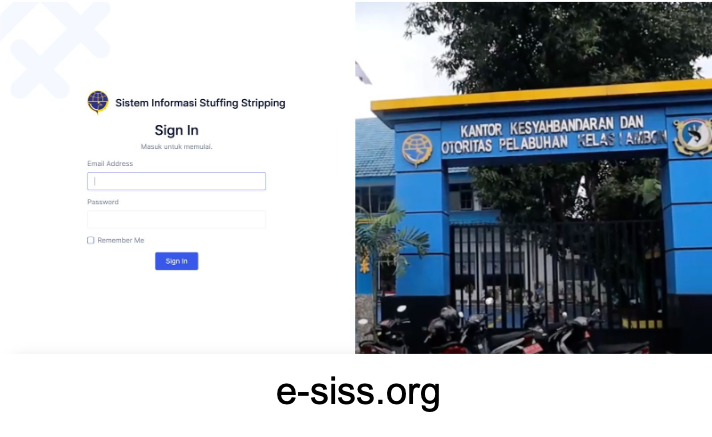
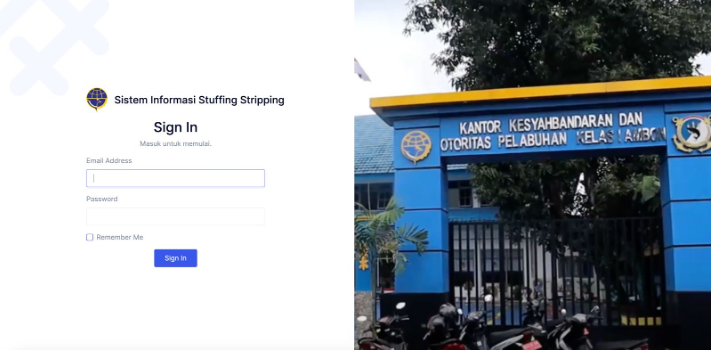
edit image

diff --git a/index.html b/index.html
@@ -41,7 +41,7 @@
   }
   .portfolio-item img {
       max-width: 100%;
-      height: auto;
+      max-height: 270px;
       display: block;
       margin: 0 auto;
   }
@@ -76,8 +76,8 @@
             <p>I'm <span class="typed" data-typed-items="Developer, Freelancer, Project Management">Developer</span><span class="typed-cursor typed-cursor--blink" aria-hidden="true"></span></p>
             <div class="social-links">
               <!-- <a href="#"><i class="bi bi-twitter-x"></i></a>
-              <a href="#"><i class="bi bi-facebook"></i></a>
-              <a href="#"><i class="bi bi-instagram"></i></a> -->
+              <a href="#"><i class="bi bi-facebook"></i></a> -->
+              <a href="https://www.instagram.com/chalid.alaydrus/"><i class="bi bi-instagram"></i></a>
               <a href="https://www.linkedin.com/in/chalid-alaydrus/"><i class="bi bi-linkedin"></i></a>
             </div>
           </div>
@@ -337,137 +337,137 @@
               <img src="assets/img/logo/sun-dewata-express.jpg" class="img-fluid" alt="" style="margin: 0 auto">
               <div class="portfolio-info">
                 <h4>Courier System</h4>
-                <p>PT. Sun Dewata Express</p>
-                <a href="assets/img/logo/sun-dewata-express.jpg" title="Courier System - PT. Sun Dewata Express" data-gallery="portfolio-gallery-product" class="glightbox preview-link"><i class="bi bi-zoom-in"></i></a>
+                <p>PT Sun Dewata Express</p>
+                <a href="assets/img/logo/sun-dewata-express.jpg" title="Courier System - PT Sun Dewata Express" data-gallery="portfolio-gallery-product" class="glightbox preview-link"><i class="bi bi-zoom-in"></i></a>
                 <a href="#" title="More Details" class="details-link"><i class="bi bi-link-45deg"></i></a>
               </div>
             </div>
             <!-- End Portfolio Item -->
             <div class="col-lg-4 col-md-6 portfolio-item isotope-item filter-app">
-              <img src="assets/img/masonry-portfolio/image009.png" class="img-fluid" alt="">
+              <img src="assets/img/portfolio/kemenhub.jpg" class="img-fluid" alt="">
               <div class="portfolio-info">
                 <h4>Sistem Informasi Database Perhubungan Laut</h4>
                 <p>Kementerian Perhubungan, Dirjen Hubla – Bagian Perencanaan</p>
-                <a href="assets/img/masonry-portfolio/image009.png" title="Sistem Informasi Database Perhubungan Laut - Kementerian Perhubungan, Dirjen Hubla – Bagian Perencanaan" data-gallery="portfolio-gallery-product" class="glightbox preview-link"><i class="bi bi-zoom-in"></i></a>
-                <a href="portfolio-details.html" title="More Details" class="details-link"><i class="bi bi-link-45deg"></i></a>
+                <a href="assets/img/portfolio/kemenhub.jpg" title="Sistem Informasi Database Perhubungan Laut - Kementerian Perhubungan, Dirjen Hubla – Bagian Perencanaan" data-gallery="portfolio-gallery-product" class="glightbox preview-link"><i class="bi bi-zoom-in"></i></a>
+                <a href="#" title="More Details" class="details-link"><i class="bi bi-link-45deg"></i></a>
               </div>
             </div>
             <!-- End Portfolio Item -->
             <div class="col-lg-4 col-md-6 portfolio-item isotope-item filter-app">
-              <img src="assets/img/masonry-portfolio/image009.png" class="img-fluid" alt="">
+              <img src="assets/img/portfolio/kemenhub.jpg" class="img-fluid" alt="">
               <div class="portfolio-info">
                 <h4>Sistem Informasi Monitoring Asset</h4>
                 <p>Kementerian Perhubungan, Dirjen Hubla - Bagian Keuangan</p>
-                <a href="assets/img/masonry-portfolio/image009.png" title="Product 1" data-gallery="portfolio-gallery-product" class="glightbox preview-link"><i class="bi bi-zoom-in"></i></a>
-                <a href="portfolio-details.html" title="More Details" class="details-link"><i class="bi bi-link-45deg"></i></a>
+                <a href="assets/img/portfolio/kemenhub.jpg" title="Sistem Informasi Monitoring Asset - Kementerian Perhubungan, Dirjen Hubla - Bagian Keuangan" data-gallery="portfolio-gallery-product" class="glightbox preview-link"><i class="bi bi-zoom-in"></i></a>
+                <a href="#" title="More Details" class="details-link"><i class="bi bi-link-45deg"></i></a>
               </div>
             </div>
             <!-- End Portfolio Item -->
             <div class="col-lg-4 col-md-6 portfolio-item isotope-item filter-app">
-              <img src="assets/img/masonry-portfolio/image013.png" class="img-fluid" alt="">
+              <img src="assets/img/portfolio/ksopbanten.jpg" class="img-fluid" alt="">
               <div class="portfolio-info">
                 <h4>Sistem Informasi Pelayanan</h4>
-                <p>Sistem I</p>
-                <a href="assets/img/masonry-portfolio/image013.png" title="App 1" data-gallery="portfolio-gallery-app" class="glightbox preview-link"><i class="bi bi-zoom-in"></i></a>
+                <p>KSOP Kelas I Banten</p>
+                <a href="assets/img/portfolio/ksopbanten.jpg" title="Sistem Informasi Pelayanan - KSOP Kelas I Banten" data-gallery="portfolio-gallery-app" class="glightbox preview-link"><i class="bi bi-zoom-in"></i></a>
+                <a href="#" title="More Details" class="details-link"><i class="bi bi-link-45deg"></i></a>
+              </div>
+            </div>
+            <!-- End Portfolio Item -->
+            <div class="col-lg-4 col-md-6 portfolio-item isotope-item filter-branding">
+              <img src="assets/img/logo/angkasapura.png" class="img-fluid" alt="">
+              <div class="portfolio-info">
+                <h4>Tender Website</h4>
+                <p>PT Angkasa Pura II</p>
+                <a href="assets/img/logo/angkasapura.png" title="Tender Website - PT Angkasa Pura II" data-gallery="portfolio-gallery-product" class="glightbox preview-link"><i class="bi bi-zoom-in"></i></a>
+                <a href="#" title="More Details" class="details-link"><i class="bi bi-link-45deg"></i></a>
+              </div>
+            </div>
+            <!-- End Portfolio Item -->
+            <div class="col-lg-4 col-md-6 portfolio-item isotope-item filter-app">
+              <img src="assets/img/logo/brm.png" class="img-fluid" alt="">
+              <div class="portfolio-info">
+                <h4>Budget Forecast System</h4>
+                <p>PT Bumi Resources Minerals. Tbk</p>
+                <a href="assets/img/logo/brm.png" title="Budget Forecast System - PT Bumi Resources Minerals. Tbk" data-gallery="portfolio-gallery-product" class="glightbox preview-link"><i class="bi bi-zoom-in"></i></a>
+                <a href="#" title="More Details" class="details-link"><i class="bi bi-link-45deg"></i></a>
+              </div>
+            </div>
+            <!-- End Portfolio Item -->
+            <div class="col-lg-4 col-md-6 portfolio-item isotope-item filter-app">
+              <img src="assets/img/logo/kemenkeu.png" class="img-fluid" alt="">
+              <div class="portfolio-info">
+                <h4>Sistem Kepegawaian</h4>
+                <p>PT Alpha Shalmon QQ Departemen Keuangan RI</p>
+                <a href="assets/img/logo/kemenkeu.png" title="Sistem Kepegawaian - PT Alpha Shalmon QQ Departemen Keuangan RI" data-gallery="portfolio-gallery-product" class="glightbox preview-link"><i class="bi bi-zoom-in"></i></a>
+                <a href="#" title="More Details" class="details-link"><i class="bi bi-link-45deg"></i></a>
+              </div>
+            </div>
+            <!-- End Portfolio Item -->
+            <div class="col-lg-4 col-md-6 portfolio-item isotope-item filter-branding">
+              <img src="assets/img/logo/logo-fd.svg" class="img-fluid" alt="">
+              <div class="portfolio-info">
+                <h4>Web, Blog, Forum, Application</h4>
+                <p>Female Daily</p>
+                <a href="assets/img/logo/logo-fd.svg" title="Web, Blog, Forum, Application - Female Daily" data-gallery="portfolio-gallery-product" class="glightbox preview-link"><i class="bi bi-zoom-in"></i></a>
+                <a href="#" title="More Details" class="details-link"><i class="bi bi-link-45deg"></i></a>
+              </div>
+            </div>
+            <!-- End Portfolio Item -->
+            <div class="col-lg-4 col-md-6 portfolio-item isotope-item filter-branding">
+              <img src="assets/img/logo/hai-demos.png" class="img-fluid" alt="">
+              <div class="portfolio-info">
+                <h4>Hai-Demos</h4>
+                <p>PT Kompas Gramedia</p>
+                <a href="assets/img/logo/hai-demos.png" title="Hai-Demos - PT Kompas Gramedia" data-gallery="portfolio-gallery-product" class="glightbox preview-link"><i class="bi bi-zoom-in"></i></a>
+                <a href="#" title="More Details" class="details-link"><i class="bi bi-link-45deg"></i></a>
+              </div>
+            </div>
+            <!-- End Portfolio Item -->
+            <div class="col-lg-4 col-md-6 portfolio-item isotope-item filter-app">
+              <img src="assets/img/portfolio/ksopbanten.jpg" class="img-fluid" alt="">
+              <div class="portfolio-info">
+                <h4>Sistem Informasi Pelayanan Online & E-Office</h4>
+                <p>Kantor KSOP Kelas I Banten</p>
+                <a href="assets/img/portfolio/ksopbanten.jpg" title="Sistem Informasi Pelayanan Online & E-Office - Kantor KSOP Kelas I Banten" data-gallery="portfolio-gallery-product" class="glightbox preview-link"><i class="bi bi-zoom-in"></i></a>
                 <a href="siksopbanten.html" title="More Details" class="details-link"><i class="bi bi-link-45deg"></i></a>
               </div>
             </div>
             <!-- End Portfolio Item -->
             <div class="col-lg-4 col-md-6 portfolio-item isotope-item filter-app">
-              <img src="assets/img/masonry-portfolio/image009.png" class="img-fluid" alt="">
-              <div class="portfolio-info">
-                <h4>Tender Website</h4>
-                <p>PT. Angkasa Pura II</p>
-                <a href="assets/img/masonry-portfolio/image009.png" title="Product 1" data-gallery="portfolio-gallery-product" class="glightbox preview-link"><i class="bi bi-zoom-in"></i></a>
-                <a href="portfolio-details.html" title="More Details" class="details-link"><i class="bi bi-link-45deg"></i></a>
-              </div>
-            </div>
-            <!-- End Portfolio Item -->
-            <div class="col-lg-4 col-md-6 portfolio-item isotope-item filter-app">
-              <img src="assets/img/masonry-portfolio/image009.png" class="img-fluid" alt="">
-              <div class="portfolio-info">
-                <h4>Budget Forecast System</h4>
-                <p>PT. Bumi Resources Minerals. Tbk</p>
-                <a href="assets/img/masonry-portfolio/image009.png" title="Product 1" data-gallery="portfolio-gallery-product" class="glightbox preview-link"><i class="bi bi-zoom-in"></i></a>
-                <a href="portfolio-details.html" title="More Details" class="details-link"><i class="bi bi-link-45deg"></i></a>
-              </div>
-            </div>
-            <!-- End Portfolio Item -->
-            <div class="col-lg-4 col-md-6 portfolio-item isotope-item filter-app">
-              <img src="assets/img/masonry-portfolio/image009.png" class="img-fluid" alt="">
-              <div class="portfolio-info">
-                <h4>Sistem Kepegawaian</h4>
-                <p>PT. Alpha Shalmon QQ Departemen Keuangan RI</p>
-                <a href="assets/img/masonry-portfolio/image009.png" title="Product 1" data-gallery="portfolio-gallery-product" class="glightbox preview-link"><i class="bi bi-zoom-in"></i></a>
-                <a href="portfolio-details.html" title="More Details" class="details-link"><i class="bi bi-link-45deg"></i></a>
-              </div>
-            </div>
-            <!-- End Portfolio Item -->
-            <div class="col-lg-4 col-md-6 portfolio-item isotope-item filter-web">
-              <img src="assets/img/masonry-portfolio/image009.png" class="img-fluid" alt="">
-              <div class="portfolio-info">
-                <h4>Female Daily</h4>
-                <p>Lorem ipsum, dolor sit</p>
-                <a href="assets/img/masonry-portfolio/image009.png" title="Product 1" data-gallery="portfolio-gallery-product" class="glightbox preview-link"><i class="bi bi-zoom-in"></i></a>
-                <a href="portfolio-details.html" title="More Details" class="details-link"><i class="bi bi-link-45deg"></i></a>
-              </div>
-            </div>
-            <!-- End Portfolio Item -->
-            <div class="col-lg-4 col-md-6 portfolio-item isotope-item filter-app">
-              <img src="assets/img/masonry-portfolio/image009.png" class="img-fluid" alt="">
-              <div class="portfolio-info">
-                <h4>Hai-Demos</h4>
-                <p>PT. Kompas Gramedia</p>
-                <a href="assets/img/masonry-portfolio/image009.png" title="Product 1" data-gallery="portfolio-gallery-product" class="glightbox preview-link"><i class="bi bi-zoom-in"></i></a>
-                <a href="portfolio-details.html" title="More Details" class="details-link"><i class="bi bi-link-45deg"></i></a>
-              </div>
-            </div>
-            <!-- End Portfolio Item -->
-            <div class="col-lg-4 col-md-6 portfolio-item isotope-item filter-app">
-              <img src="assets/img/masonry-portfolio/image009.png" class="img-fluid" alt="">
-              <div class="portfolio-info">
-                <h4>Sistem Informasi Pelayanan Online & E-Office</h4>
-                <p>Kantor KSOP Kelas I Banten</p>
-                <a href="assets/img/masonry-portfolio/image009.png" title="Product 1" data-gallery="portfolio-gallery-product" class="glightbox preview-link"><i class="bi bi-zoom-in"></i></a>
-                <a href="portfolio-details.html" title="More Details" class="details-link"><i class="bi bi-link-45deg"></i></a>
-              </div>
-            </div>
-            <!-- End Portfolio Item -->
-            <div class="col-lg-4 col-md-6 portfolio-item isotope-item filter-app">
-              <img src="assets/img/masonry-portfolio/image009.png" class="img-fluid" alt="">
+              <img src="assets/img/logo/kemendagri.svg" class="img-fluid" alt="">
               <div class="portfolio-info">
                 <h4>E-Office</h4>
                 <p>Kementerian Dalam Negeri</p>
-                <a href="assets/img/masonry-portfolio/image009.png" title="Product 1" data-gallery="portfolio-gallery-product" class="glightbox preview-link"><i class="bi bi-zoom-in"></i></a>
-                <a href="portfolio-details.html" title="More Details" class="details-link"><i class="bi bi-link-45deg"></i></a>
+                <a href="assets/img/logo/kemendagri.svg" title="Product 1" data-gallery="portfolio-gallery-product" class="glightbox preview-link"><i class="bi bi-zoom-in"></i></a>
+                <a href="#" title="More Details" class="details-link"><i class="bi bi-link-45deg"></i></a>
               </div>
             </div>
             <!-- End Portfolio Item -->
             <div class="col-lg-4 col-md-6 portfolio-item isotope-item filter-branding">
-              <img src="assets/img/masonry-portfolio/image009.png" class="img-fluid" alt="">
+              <img src="assets/img/portfolio/arjayamarinecom.png" class="img-fluid" alt="">
               <div class="portfolio-info">
                 <h4>Company Profile</h4>
                 <p>PT Arjaya Berkah Marine</p>
-                <a href="assets/img/masonry-portfolio/image009.png" title="Branding 1" data-gallery="portfolio-gallery-branding" class="glightbox preview-link"><i class="bi bi-zoom-in"></i></a>
-                <a href="portfolio-details.html" title="More Details" class="details-link"><i class="bi bi-link-45deg"></i></a>
+                <a href="assets/img/portfolio/arjayamarinecom.png" title="Company Profile - PT Arjaya Berkah Marine" data-gallery="portfolio-gallery-branding" class="glightbox preview-link"><i class="bi bi-zoom-in"></i></a>
+                <a href="#" title="More Details" class="details-link"><i class="bi bi-link-45deg"></i></a>
               </div>
             </div><!-- End Portfolio Item -->
             <div class="col-lg-4 col-md-6 portfolio-item isotope-item filter-app">
-              <img src="assets/img/masonry-portfolio/image009.png" class="img-fluid" alt="">
+              <img src="assets/img/portfolio/ksopambon.jpeg" class="img-fluid" alt="">
               <div class="portfolio-info">
                 <h4>Sistem Informasi Stuffing Stripping</h4>
                 <p>Kantor KSOP Kelas I Ambon</p>
-                <a href="assets/img/masonry-portfolio/image009.png" title="App 2" data-gallery="portfolio-gallery-app" class="glightbox preview-link"><i class="bi bi-zoom-in"></i></a>
-                <a href="portfolio-details.html" title="More Details" class="details-link"><i class="bi bi-link-45deg"></i></a>
+                <a href="assets/img/portfolio/ksopambon.jpeg" title="Sistem Informasi Stuffing Stripping - Kantor KSOP Kelas I Ambon" data-gallery="portfolio-gallery-app" class="glightbox preview-link"><i class="bi bi-zoom-in"></i></a>
+                <a href="#" title="More Details" class="details-link"><i class="bi bi-link-45deg"></i></a>
               </div>
             </div><!-- End Portfolio Item -->
             <div class="col-lg-4 col-md-6 portfolio-item isotope-item filter-product">
-              <img src="assets/img/masonry-portfolio/image009.png" class="img-fluid" alt="">
+              <img src="assets/img/portfolio/siabm.png" class="img-fluid" alt="">
               <div class="portfolio-info">
                 <h4>Docking Management System</h4>
                 <p>PT Arjaya Berkah Marine</p>
-                <a href="assets/img/masonry-portfolio/image009.png" title="Product 2" data-gallery="portfolio-gallery-product" class="glightbox preview-link"><i class="bi bi-zoom-in"></i></a>
-                <a href="portfolio-details.html" title="More Details" class="details-link"><i class="bi bi-link-45deg"></i></a>
+                <a href="assets/img/portfolio/siabm.png" title="Docking Management System  - PT Arjaya Berkah Marine" data-gallery="portfolio-gallery-product" class="glightbox preview-link"><i class="bi bi-zoom-in"></i></a>
+                <a href="#" title="More Details" class="details-link"><i class="bi bi-link-45deg"></i></a>
               </div>
             </div>
             <!-- End Portfolio Item -->
@@ -620,9 +620,9 @@
       <div class="social-links d-flex justify-content-center">
         <!-- <a href=""><i class="bi bi-twitter-x"></i></a>
         <a href=""><i class="bi bi-facebook"></i></a>
-        <a href=""><i class="bi bi-instagram"></i></a>
         <a href=""><i class="bi bi-skype"></i></a>
         <a href=""><i class="bi bi-linkedin"></i></a> -->
+        <a href="https://www.instagram.com/chalid.alaydrus/"><i class="bi bi-instagram"></i></a>
         <a href="https://www.linkedin.com/in/chalid-alaydrus/"><i class="bi bi-linkedin"></i></a>
       </div>
       <div class="container">

diff --git a/siksopbanten.html b/siksopbanten.html
@@ -159,9 +159,9 @@
       <div class="social-links d-flex justify-content-center">
         <!-- <a href=""><i class="bi bi-twitter-x"></i></a>
         <a href=""><i class="bi bi-facebook"></i></a>
-        <a href=""><i class="bi bi-instagram"></i></a>
         <a href=""><i class="bi bi-skype"></i></a>
         <a href=""><i class="bi bi-linkedin"></i></a> -->
+        <a href="https://www.instagram.com/chalid.alaydrus/"><i class="bi bi-instagram"></i></a>
         <a href="https://www.linkedin.com/in/chalid-alaydrus/"><i class="bi bi-linkedin"></i></a>
       </div>
       <div class="container">
